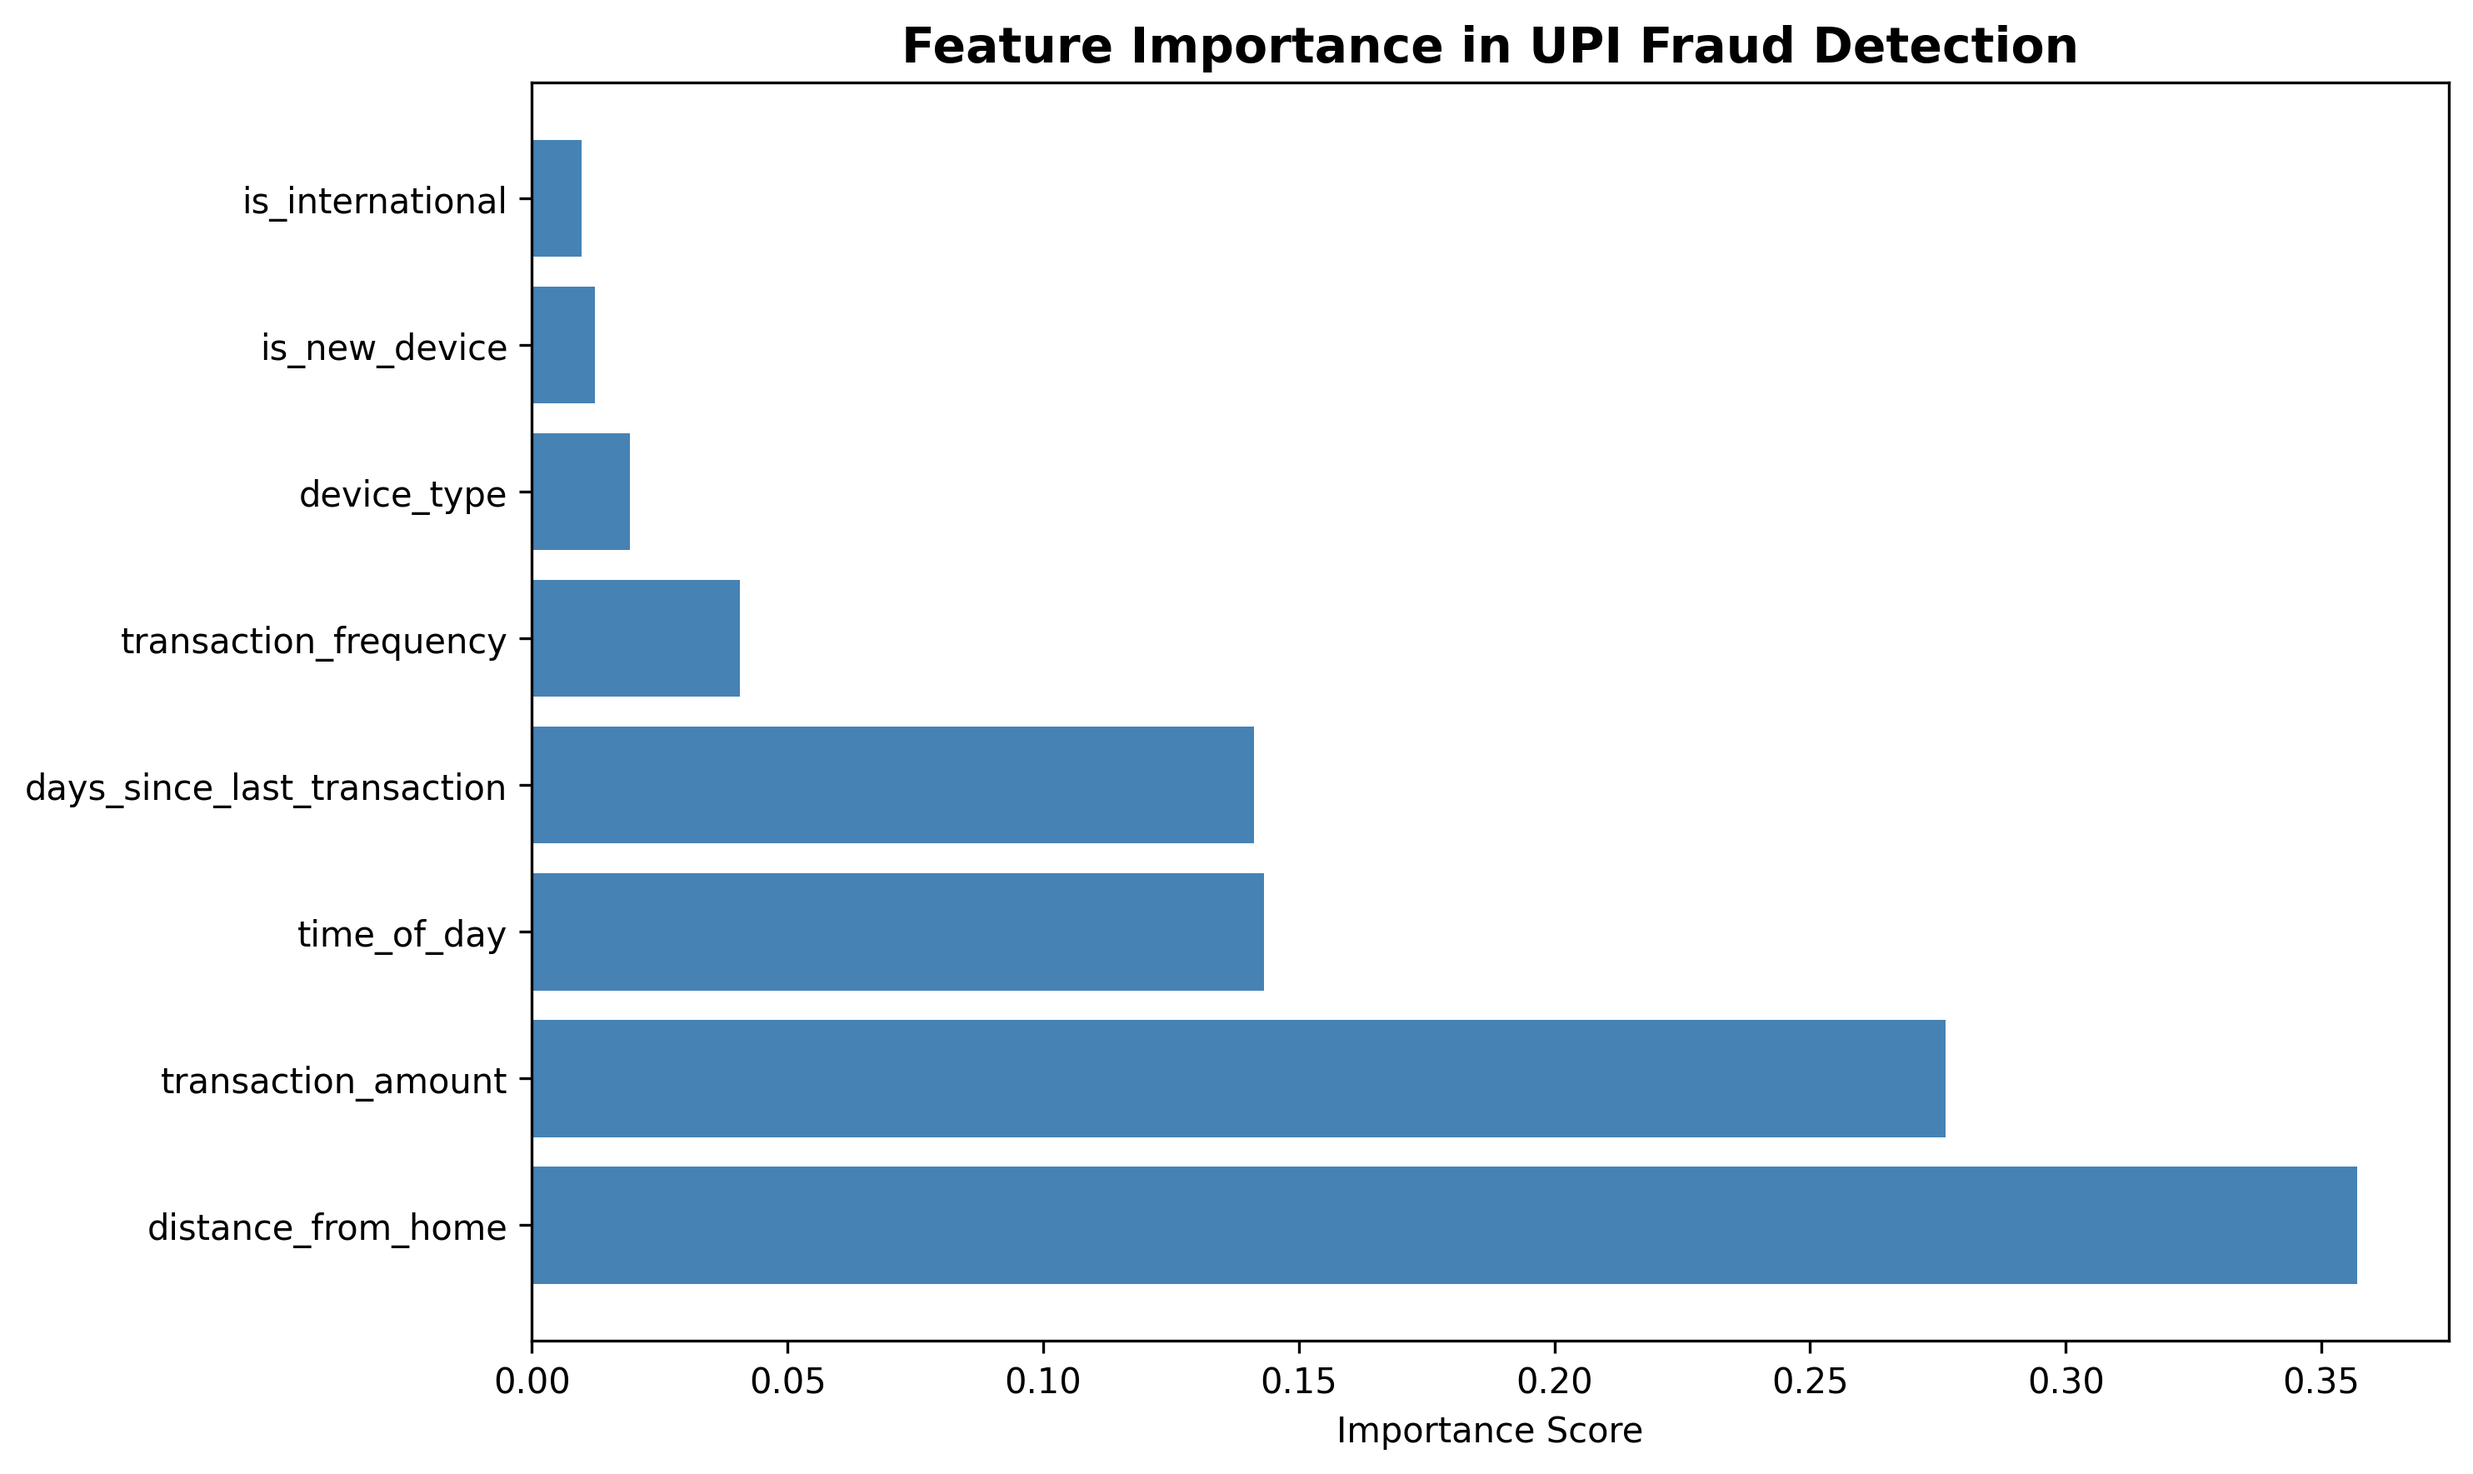
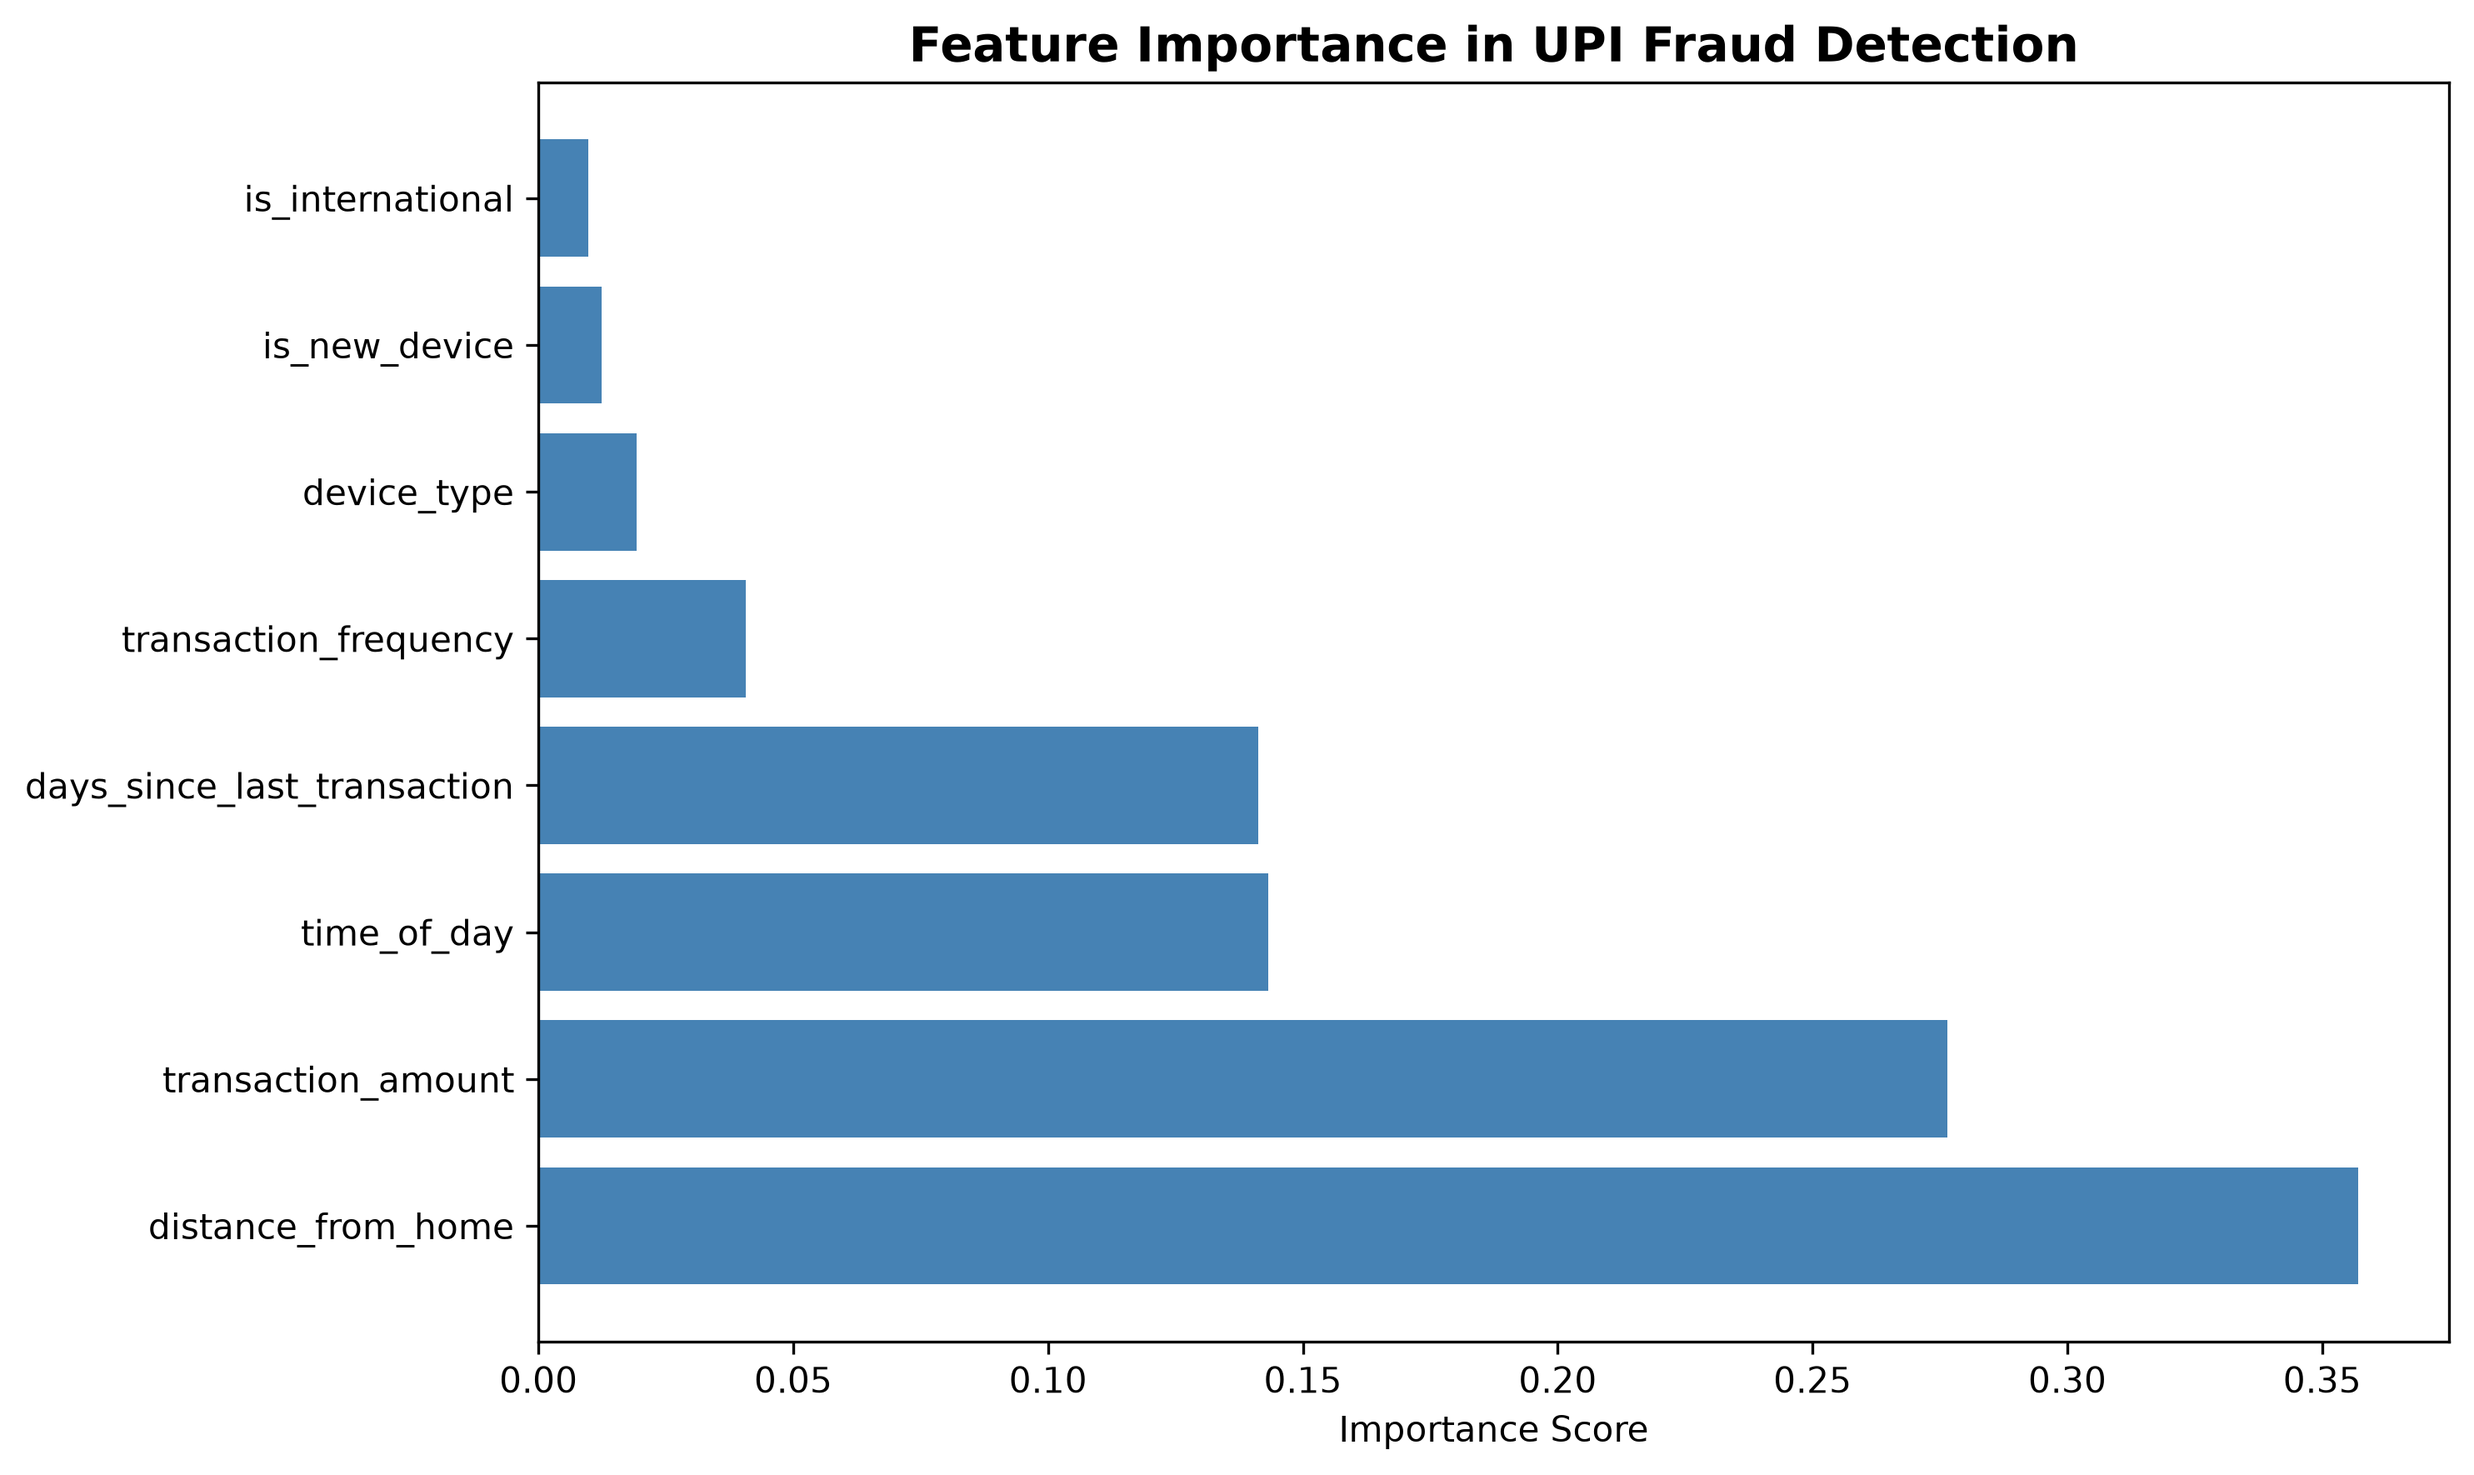
finalize

diff --git a/upi_fraud_detection.py b/upi_fraud_detection.py
@@ -24,37 +24,39 @@ print("\n[STEP 1] Creating Sample UPI Transaction Dataset...")
 np.random.seed(42)
 n_samples = 10000
 
-# Normal transactions
-normal_amount = np.random.uniform(100, 5000, n_samples)
-normal_time = np.random.uniform(0, 24, n_samples)
-normal_distance = np.random.uniform(0, 100, n_samples)
-normal_frequency = np.random.poisson(2, n_samples)
-
 # Create features
-data = {
-    'transaction_amount': normal_amount,
-    'time_of_day': normal_time,
-    'distance_from_home': normal_distance,
-    'transaction_frequency': normal_frequency,
-    'days_since_last_transaction': np.random.uniform(0, 30, n_samples),
-    'device_type': np.random.choice([0, 1, 2], n_samples),
-    'is_new_device': np.random.choice([0, 1], n_samples),
-    'is_international': np.random.choice([0, 1], n_samples)
-}
+transaction_amount = np.random.uniform(100, 5000, n_samples)
+time_of_day = np.random.uniform(0, 24, n_samples)
+distance_from_home = np.random.uniform(0, 100, n_samples)
+transaction_frequency = np.random.poisson(2, n_samples)
+days_since_last = np.random.uniform(0, 30, n_samples)
+device_type = np.random.choice([0, 1, 2], n_samples)
+is_new_device = np.random.choice([0, 1], n_samples)
+is_international = np.random.choice([0, 1], n_samples)
+
+# Create DataFrame
+df = pd.DataFrame({
+    'transaction_amount': transaction_amount,
+    'time_of_day': time_of_day,
+    'distance_from_home': distance_from_home,
+    'transaction_frequency': transaction_frequency,
+    'days_since_last_transaction': days_since_last,
+    'device_type': device_type,
+    'is_new_device': is_new_device,
+    'is_international': is_international
+})
 
 # Create fraud labels (80% normal, 20% fraud)
 fraud_label = np.random.choice([0, 1], n_samples, p=[0.8, 0.2])
-data['is_fraud'] = fraud_label
+df['is_fraud'] = fraud_label
 
 # Make fraudulent transactions have different patterns
-fraud_indices = np.where(fraud_label == 1)[0]
-data_array = np.array([data['transaction_amount'], data['time_of_day'], data['distance_from_home']])
-for idx in fraud_indices[:int(len(fraud_indices) * 0.5)]:
-    data['transaction_amount'][idx] *= 2
-    data['distance_from_home'][idx] *= 3
+fraud_indices = df[df['is_fraud'] == 1].index
+fraud_sample = fraud_indices[:int(len(fraud_indices) * 0.5)]
 
-# Create DataFrame
-df = pd.DataFrame(data)
+df.loc[fraud_sample, 'transaction_amount'] *= 2
+df.loc[fraud_sample, 'distance_from_home'] *= 3
+
 print(f"Dataset created: {len(df)} transactions")
 print(f"Fraud cases: {df['is_fraud'].sum()} ({df['is_fraud'].sum()/len(df)*100:.1f}%)")
 print(f"\nFirst 5 rows:\n{df.head()}")
@@ -148,8 +150,7 @@ df.boxplot(column='transaction_amount', by='is_fraud', ax=ax2)
 ax2.set_title('Transaction Amount: Normal vs Fraud', fontweight='bold')
 ax2.set_xlabel('Fraud Status (0=Normal, 1=Fraud)')
 ax2.set_ylabel('Amount (₹)')
-plt.sca(ax2)
-plt.xticks([1, 2], ['Normal', 'Fraud'])
+ax2.set_xticklabels(['Normal', 'Fraud'])
 
 # Plot 3: Confusion Matrix (Logistic Regression)
 ax3 = axes[1, 0]
@@ -186,7 +187,7 @@ ax4.grid(axis='y', alpha=0.3)
 plt.tight_layout()
 plt.savefig('upi_fraud_detection_analysis.png', dpi=300, bbox_inches='tight')
 print("✓ Visualization saved as 'upi_fraud_detection_analysis.png'")
-plt.close()
+plt.show()
 
 # STEP 7: FEATURE IMPORTANCE
 print("\n[STEP 7] Feature Importance (Random Forest)...")
@@ -205,7 +206,7 @@ plt.title('Feature Importance in UPI Fraud Detection', fontweight='bold', fontsi
 plt.tight_layout()
 plt.savefig('feature_importance.png', dpi=300, bbox_inches='tight')
 print("✓ Feature importance saved as 'feature_importance.png'")
-plt.close()
+plt.show()
 
 # SUMMARY
 print("\n" + "=" * 60)
